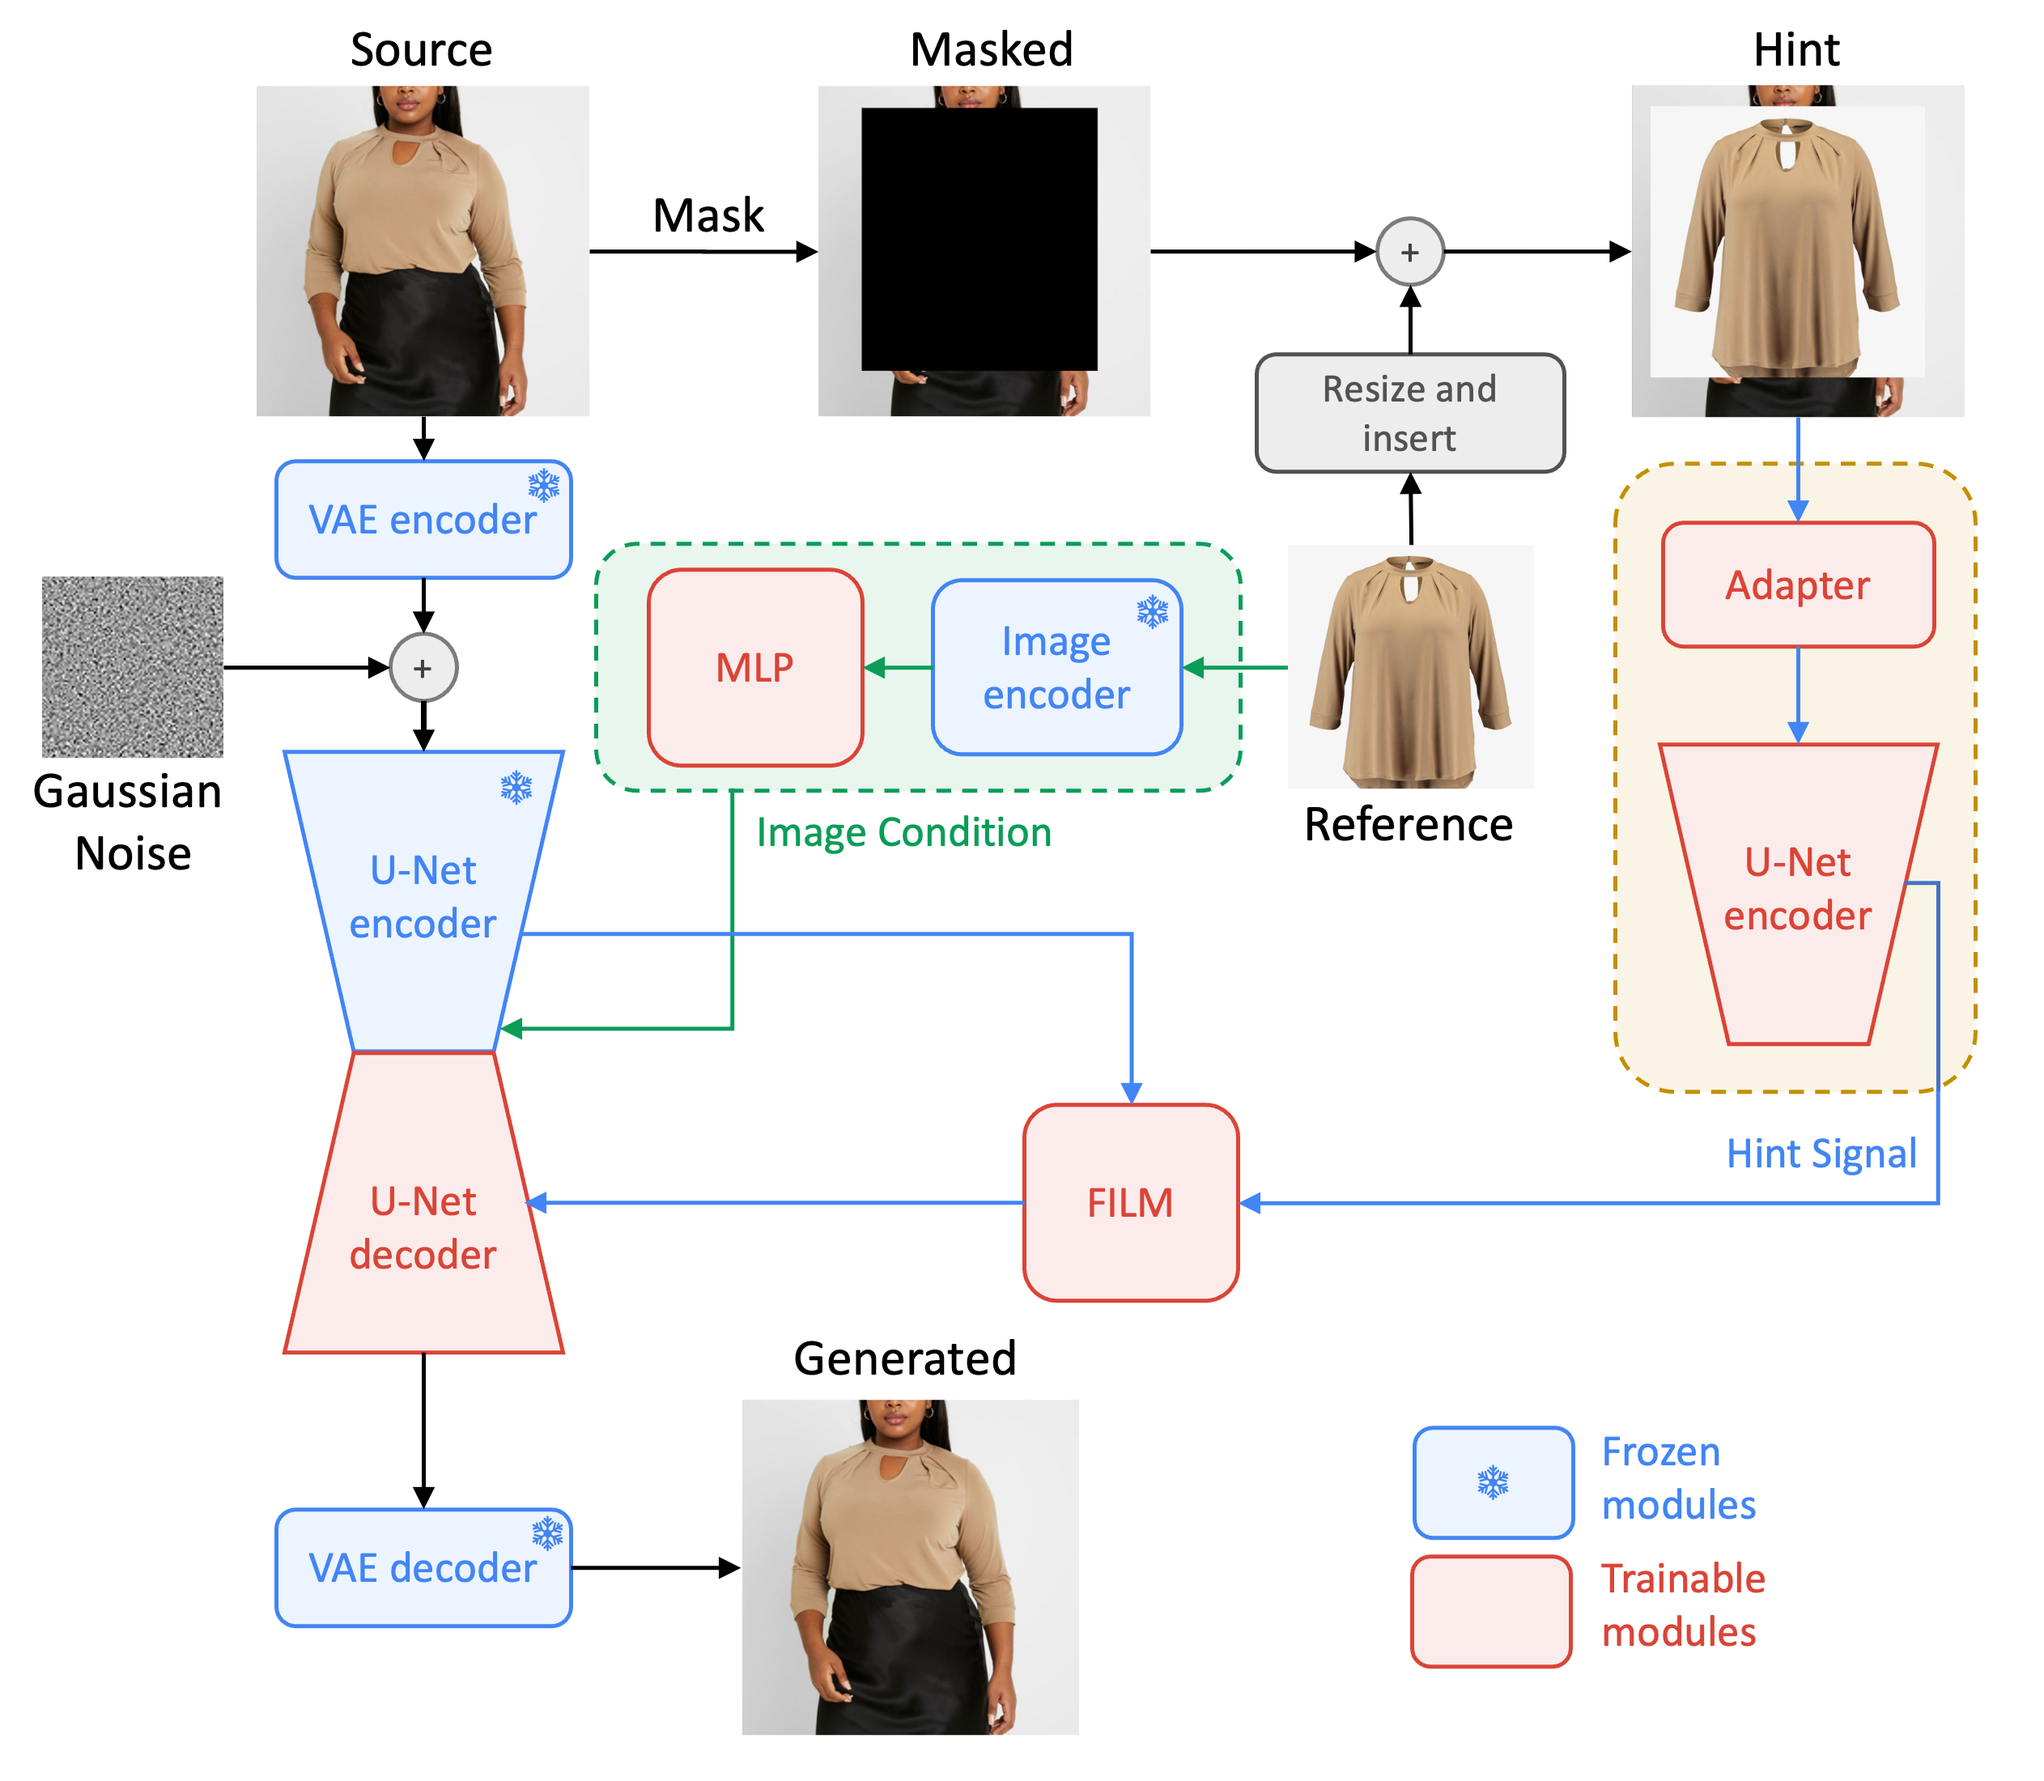
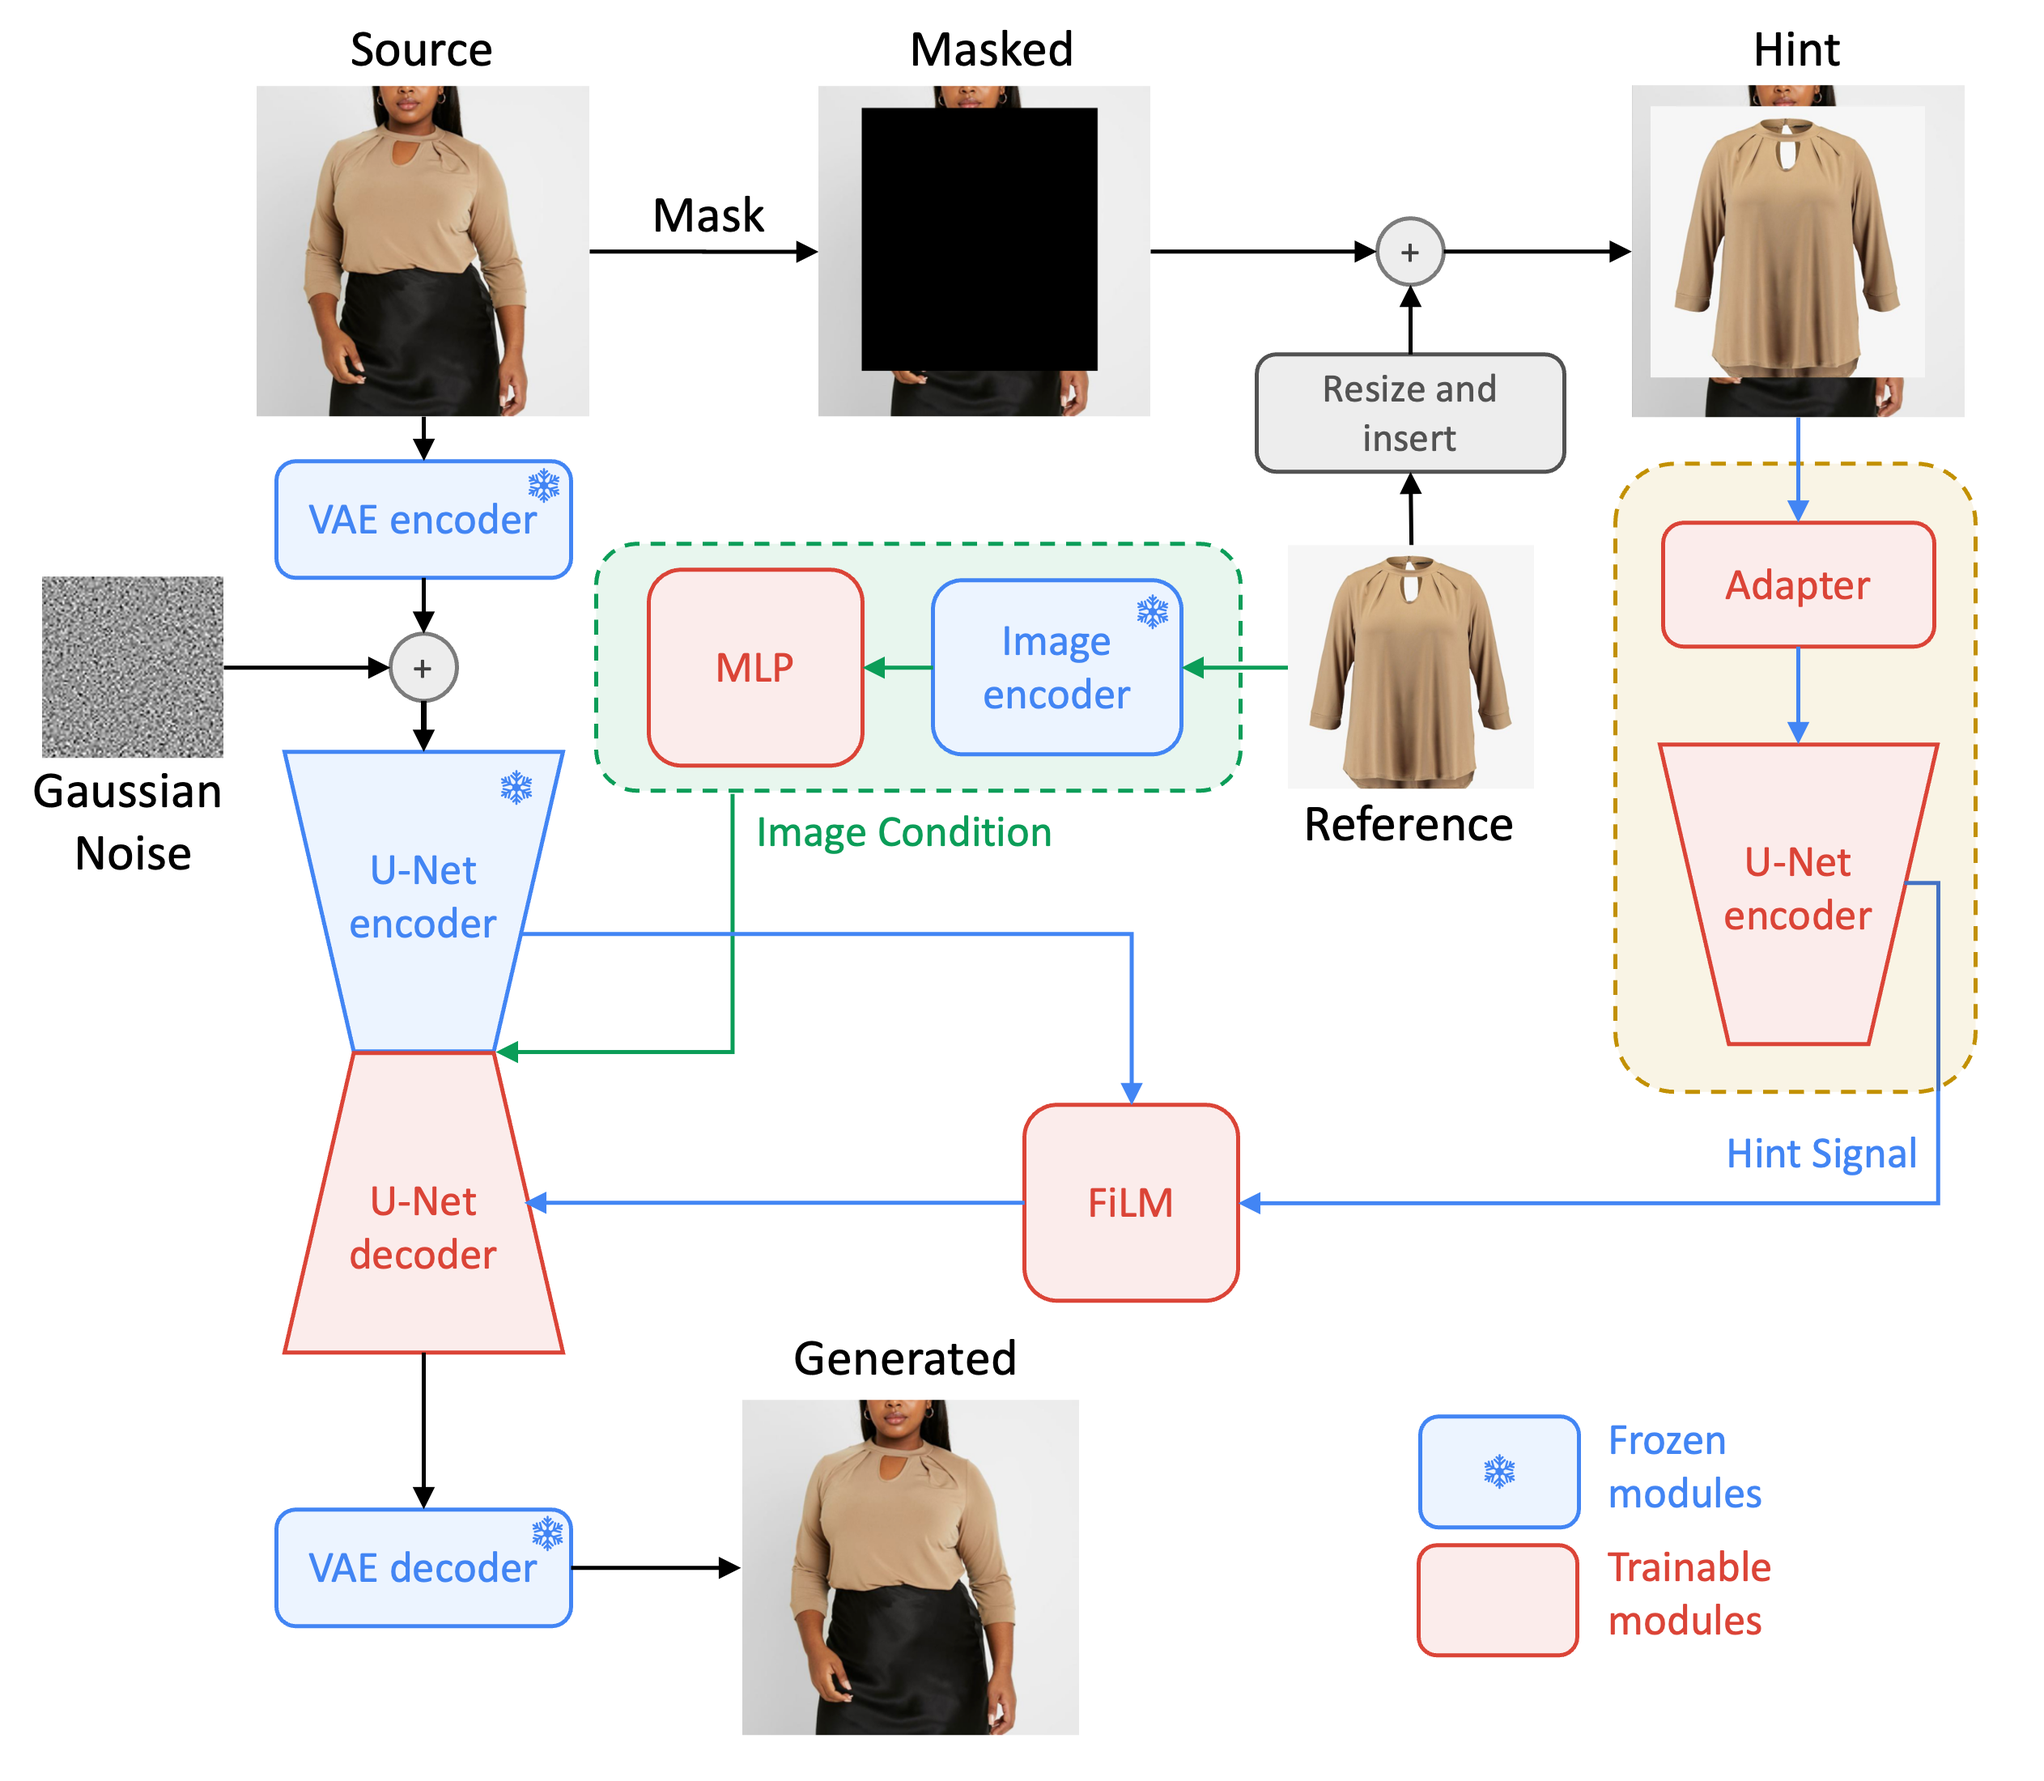
updated architecture diagram to center the image conditioning signal, movie final, and placement of movie

Changed region(s): [[0.6796, 0.7727, 0.865, 0.9582], [0.2471, 0.5564, 0.278, 0.6182]]

diff --git a/index.html b/index.html
@@ -108,6 +108,17 @@
   </div>
 </section>
 
+
+<section class="hero teaser">
+  <div class="container is-max-desktop">
+    <div class="hero-body">
+      <video id="teaser" autoplay muted loop playsinline height="100%" controls>
+        <source src="./static/videos/diffuse_to_choose_demo_reel.mp4" type="video/mp4">
+      </video>
+    </div>
+  </div>
+</section>
+
 <section class="hero teaser">
   <div class="container is-max-desktop">
     <div class="hero-body">
@@ -122,18 +133,6 @@
 
 
 
-<section class="hero teaser">
-  <div class="container is-max-desktop">
-    <div class="hero-body">
-      <video id="teaser" autoplay muted loop playsinline height="100%" controls>
-        <source src="./static/videos/dtc_demo_reel.mov" type="video/mp4">
-      </video>
-      <h2 class="subtitle has-text-centered">
-        Demo video of Diffuse2Choose. Please note that for the sake of brevity, the video has been edited for speed. In reality, the inpainting process for a single image typically takes around 6 seconds.
-      </h2>
-    </div>
-  </div>
-</section>
 
 
 
